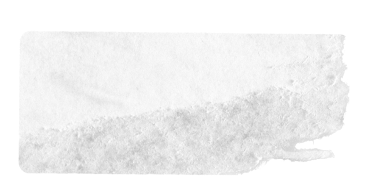
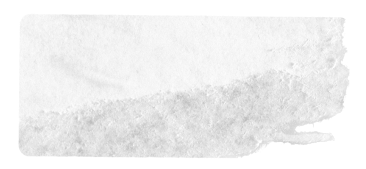
ui

diff --git a/styles.css b/styles.css
@@ -425,11 +425,69 @@ button {
 }
 
 /* =========================================================
-   RESPONSIVE — 1440 needs no overrides (artboard scales fluidly)
+   RESPONSIVE — 1440
+   Below 1920 the artboard scales down, but the buttons' fixed px
+   font-sizes don't, so they read too large. These overrides retune
+   button size/position for the 1440 range. Inline `style` wins over
+   the stylesheet, so the values need !important; bounded at 769px so
+   they never reach the mobile layout.
    ========================================================= */
 @media (max-width: 1440px) {
   .nav {
     padding: 0 clamp(14px, 1.5vw, 28px);
+  }
+}
+
+@media (min-width: 769px) and (max-width: 1440px) {
+  /* part 1 — Buy Poster */
+  .shop .part:nth-of-type(1) .sticker {
+    --w: 31% !important;
+    font-size: 28px !important;
+  }
+  /* part 2 — Get This */
+  .shop .part:nth-of-type(2) .sticker {
+    --w: 31% !important;
+    font-size: 30px !important;
+  }
+  /* part 3 — Get Board (CSS button) */
+  .shop .part:nth-of-type(3) .sticker {
+    --x: 70.5% !important;
+    --y: 83% !important;
+    font-size: 24px !important;
+  }
+  /* part 4 — Get Board (CSS button) */
+  .shop .part:nth-of-type(4) .sticker {
+    --x: 46% !important;
+    --y: 79% !important;
+    font-size: 24px !important;
+  }
+  /* part 5 — Buy Poster */
+  .shop .part:nth-of-type(5) .sticker {
+    --w: 24% !important;
+    font-size: 22px !important;
+  }
+  /* part 6 — left board / right board / shirt */
+  .shop .part:nth-of-type(6) .sticker--yellow {
+    --w: 21% !important;
+    font-size: 25px !important;
+  }
+  .shop .part:nth-of-type(6) .sticker--green {
+    --w: 23% !important;
+    font-size: 27px !important;
+  }
+  .shop .part:nth-of-type(6) .sticker--white {
+    --w: 25% !important;
+    font-size: 30px !important;
+  }
+  /* part 7 — Buy Poster */
+  .shop .part:nth-of-type(7) .sticker {
+    --w: 25% !important;
+    font-size: clamp(12px, 22px, 48px) !important;
+  }
+  /* part 8 — Must Have */
+  .shop .part:nth-of-type(8) .sticker {
+    --w: 36% !important;
+    font-size: 32px !important;
   }
 }
 